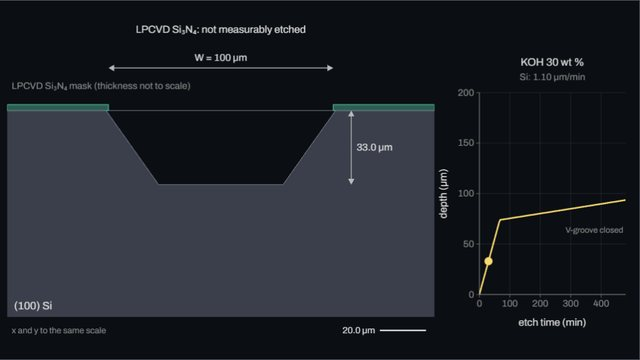
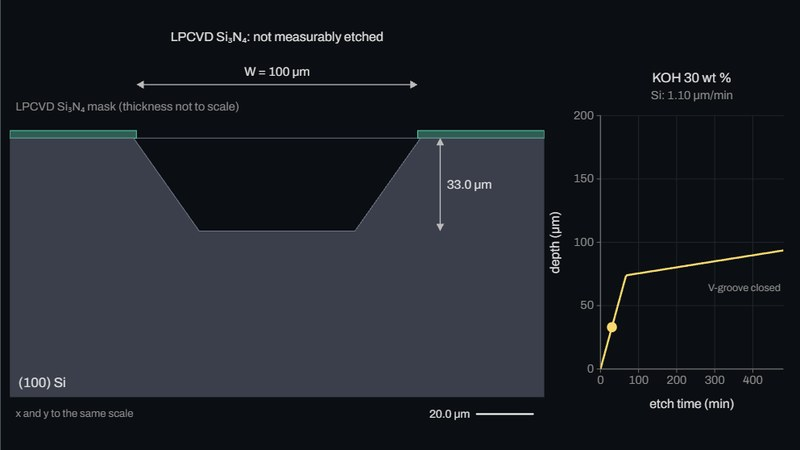
Sharp figures, sliders first in Explore, less empty space
- Canvas bitmap now matches the plate's inner box in whole device pixels
  (it was sized to the outer box incl. the border and then scaled down,
  which made every figure slightly soft).
- Explore mode: the sliders follow the short intro directly; the
  characteristics table moves below them, so it needs no blank reserve.
- Guided tour: the table reserves only the height the current step needs.
- Wider side panel on large screens, sliders in two columns from 500 px.
- Contents miniatures re-captured from the sharp figures at 800 px.

diff --git a/index.html b/index.html
@@ -8,7 +8,7 @@
 <meta name="description" content="Interactive simulations for teaching microfabrication: crystal growth, lithography, diffusion, oxidation, thin-film deposition and etching of silicon.">
 <script>(function(){var t=null;try{t=localStorage.getItem('mfw-theme')}catch(e){}if(t!=='light'&&t!=='dark'){t='light'}document.documentElement.setAttribute('data-theme',t)})();</script>
 <link rel="preload" href="assets/fonts/archivo-latin.woff2" as="font" type="font/woff2" crossorigin>
-<link rel="stylesheet" href="assets/mfw.css?v=35f4052511">
+<link rel="stylesheet" href="assets/mfw.css?v=be07d1cac3">
 </head>
 <body>
 <header class="site-header">
@@ -26,72 +26,72 @@
   <h2 class="contents-h">Contents <span class="contents-count"></span></h2>
   <div class="grid">
     <a class="tile" href="widgets/semiconductor/index.html">
-      <span class="tile-thumb"><img class="th-light" src="assets/thumbs/semiconductor-light.jpg" alt="" width="640" height="360" loading="lazy" decoding="async"><img class="th-dark" src="assets/thumbs/semiconductor-dark.jpg" alt="" width="640" height="360" loading="lazy" decoding="async"></span>
+      <span class="tile-thumb"><img class="th-light" src="assets/thumbs/semiconductor-light.jpg" alt="" width="800" height="450" loading="lazy" decoding="async"><img class="th-dark" src="assets/thumbs/semiconductor-dark.jpg" alt="" width="800" height="450" loading="lazy" decoding="async"></span>
       <h2><span class="tile-no">1.1</span><span class="tile-name">Carriers &amp; the pn junction</span></h2>
       <p>Intrinsic carriers, Fermi level and doping, built-in voltage, depletion width, field, capacitance and breakdown.</p>
     </a>
     <a class="tile" href="widgets/vacuum/index.html">
-      <span class="tile-thumb"><img class="th-light" src="assets/thumbs/vacuum-light.jpg" alt="" width="640" height="360" loading="lazy" decoding="async"><img class="th-dark" src="assets/thumbs/vacuum-dark.jpg" alt="" width="640" height="360" loading="lazy" decoding="async"></span>
+      <span class="tile-thumb"><img class="th-light" src="assets/thumbs/vacuum-light.jpg" alt="" width="800" height="450" loading="lazy" decoding="async"><img class="th-dark" src="assets/thumbs/vacuum-dark.jpg" alt="" width="800" height="450" loading="lazy" decoding="async"></span>
       <h2><span class="tile-no">1.2</span><span class="tile-name">Vacuum technology</span></h2>
       <p>Pump-down, pipe conductance and effective pumping speed, flow regimes, outgassing, mean free path.</p>
     </a>
     <a class="tile" href="widgets/segregation/index.html">
-      <span class="tile-thumb"><img class="th-light" src="assets/thumbs/segregation-light.jpg" alt="" width="640" height="360" loading="lazy" decoding="async"><img class="th-dark" src="assets/thumbs/segregation-dark.jpg" alt="" width="640" height="360" loading="lazy" decoding="async"></span>
+      <span class="tile-thumb"><img class="th-light" src="assets/thumbs/segregation-light.jpg" alt="" width="800" height="450" loading="lazy" decoding="async"><img class="th-dark" src="assets/thumbs/segregation-dark.jpg" alt="" width="800" height="450" loading="lazy" decoding="async"></span>
       <h2><span class="tile-no">2.1</span><span class="tile-name">Dopant segregation</span></h2>
       <p>Czochralski growth: why the tail of a doped ingot has a different resistivity from the seed end.</p>
     </a>
     <a class="tile" href="widgets/spincoating/index.html">
-      <span class="tile-thumb"><img class="th-light" src="assets/thumbs/spincoating-light.jpg" alt="" width="640" height="360" loading="lazy" decoding="async"><img class="th-dark" src="assets/thumbs/spincoating-dark.jpg" alt="" width="640" height="360" loading="lazy" decoding="async"></span>
+      <span class="tile-thumb"><img class="th-light" src="assets/thumbs/spincoating-light.jpg" alt="" width="800" height="450" loading="lazy" decoding="async"><img class="th-dark" src="assets/thumbs/spincoating-dark.jpg" alt="" width="800" height="450" loading="lazy" decoding="async"></span>
       <h2><span class="tile-no">3.1</span><span class="tile-name">Spin coating</span></h2>
       <p>How spin speed and the resist set the film thickness: t ∝ 1/√(rpm), soft bake and edge bead.</p>
     </a>
     <a class="tile" href="widgets/lithography/index.html">
-      <span class="tile-thumb"><img class="th-light" src="assets/thumbs/lithography-light.jpg" alt="" width="640" height="360" loading="lazy" decoding="async"><img class="th-dark" src="assets/thumbs/lithography-dark.jpg" alt="" width="640" height="360" loading="lazy" decoding="async"></span>
+      <span class="tile-thumb"><img class="th-light" src="assets/thumbs/lithography-light.jpg" alt="" width="800" height="450" loading="lazy" decoding="async"><img class="th-dark" src="assets/thumbs/lithography-dark.jpg" alt="" width="800" height="450" loading="lazy" decoding="async"></span>
       <h2><span class="tile-no">3.2</span><span class="tile-name">Lithography resolution</span></h2>
       <p>Contact, proximity and projection printing: diffraction, k₁, the cut-off pitch and depth of focus.</p>
     </a>
     <a class="tile" href="widgets/diffusion/index.html">
-      <span class="tile-thumb"><img class="th-light" src="assets/thumbs/diffusion-light.jpg" alt="" width="640" height="360" loading="lazy" decoding="async"><img class="th-dark" src="assets/thumbs/diffusion-dark.jpg" alt="" width="640" height="360" loading="lazy" decoding="async"></span>
+      <span class="tile-thumb"><img class="th-light" src="assets/thumbs/diffusion-light.jpg" alt="" width="800" height="450" loading="lazy" decoding="async"><img class="th-dark" src="assets/thumbs/diffusion-dark.jpg" alt="" width="800" height="450" loading="lazy" decoding="async"></span>
       <h2><span class="tile-no">4.1</span><span class="tile-name">Diffusion &amp; junction depth</span></h2>
       <p>Predeposition and drive-in of boron or phosphorus: erfc and Gaussian profiles, junction depth, sheet resistance.</p>
     </a>
     <a class="tile" href="widgets/implant/index.html">
-      <span class="tile-thumb"><img class="th-light" src="assets/thumbs/implant-light.jpg" alt="" width="640" height="360" loading="lazy" decoding="async"><img class="th-dark" src="assets/thumbs/implant-dark.jpg" alt="" width="640" height="360" loading="lazy" decoding="async"></span>
+      <span class="tile-thumb"><img class="th-light" src="assets/thumbs/implant-light.jpg" alt="" width="800" height="450" loading="lazy" decoding="async"><img class="th-dark" src="assets/thumbs/implant-dark.jpg" alt="" width="800" height="450" loading="lazy" decoding="async"></span>
       <h2><span class="tile-no">4.2</span><span class="tile-name">Ion implantation</span></h2>
       <p>Range and straggle, dose and peak concentration, junction depth, masking thickness and beam time.</p>
     </a>
     <a class="tile" href="widgets/oxidation/index.html">
-      <span class="tile-thumb"><img class="th-light" src="assets/thumbs/oxidation-light.jpg" alt="" width="640" height="360" loading="lazy" decoding="async"><img class="th-dark" src="assets/thumbs/oxidation-dark.jpg" alt="" width="640" height="360" loading="lazy" decoding="async"></span>
+      <span class="tile-thumb"><img class="th-light" src="assets/thumbs/oxidation-light.jpg" alt="" width="800" height="450" loading="lazy" decoding="async"><img class="th-dark" src="assets/thumbs/oxidation-dark.jpg" alt="" width="800" height="450" loading="lazy" decoding="async"></span>
       <h2><span class="tile-no">5.1</span><span class="tile-name">Thermal oxidation</span></h2>
       <p>Deal–Grove model: dry vs wet oxidation, temperature, orientation, time to a target thickness and the colour of the oxide.</p>
     </a>
     <a class="tile" href="widgets/cvd/index.html">
-      <span class="tile-thumb"><img class="th-light" src="assets/thumbs/cvd-light.jpg" alt="" width="640" height="360" loading="lazy" decoding="async"><img class="th-dark" src="assets/thumbs/cvd-dark.jpg" alt="" width="640" height="360" loading="lazy" decoding="async"></span>
+      <span class="tile-thumb"><img class="th-light" src="assets/thumbs/cvd-light.jpg" alt="" width="800" height="450" loading="lazy" decoding="async"><img class="th-dark" src="assets/thumbs/cvd-dark.jpg" alt="" width="800" height="450" loading="lazy" decoding="async"></span>
       <h2><span class="tile-no">5.2</span><span class="tile-name">CVD growth rate</span></h2>
       <p>Grove model: when does the surface reaction limit growth, and when the gas flow? Boundary layer, temperature and the regime boundary.</p>
     </a>
     <a class="tile" href="widgets/pvd/index.html">
-      <span class="tile-thumb"><img class="th-light" src="assets/thumbs/pvd-light.jpg" alt="" width="640" height="360" loading="lazy" decoding="async"><img class="th-dark" src="assets/thumbs/pvd-dark.jpg" alt="" width="640" height="360" loading="lazy" decoding="async"></span>
+      <span class="tile-thumb"><img class="th-light" src="assets/thumbs/pvd-light.jpg" alt="" width="800" height="450" loading="lazy" decoding="async"><img class="th-dark" src="assets/thumbs/pvd-dark.jpg" alt="" width="800" height="450" loading="lazy" decoding="async"></span>
       <h2><span class="tile-no">5.3</span><span class="tile-name">Evaporation &amp; sputtering</span></h2>
       <p>Line-of-sight deposition: thickness uniformity, mean free path versus pressure, shadowing and lift-off.</p>
     </a>
     <a class="tile" href="widgets/stress/index.html">
-      <span class="tile-thumb"><img class="th-light" src="assets/thumbs/stress-light.jpg" alt="" width="640" height="360" loading="lazy" decoding="async"><img class="th-dark" src="assets/thumbs/stress-dark.jpg" alt="" width="640" height="360" loading="lazy" decoding="async"></span>
+      <span class="tile-thumb"><img class="th-light" src="assets/thumbs/stress-light.jpg" alt="" width="800" height="450" loading="lazy" decoding="async"><img class="th-dark" src="assets/thumbs/stress-dark.jpg" alt="" width="800" height="450" loading="lazy" decoding="async"></span>
       <h2><span class="tile-no">5.4</span><span class="tile-name">Film stress &amp; wafer bow</span></h2>
       <p>Intrinsic and thermal-mismatch stress, the Stoney equation, wafer curvature and how stress is measured.</p>
     </a>
     <a class="tile" href="widgets/etching/index.html">
-      <span class="tile-thumb"><img class="th-light" src="assets/thumbs/etching-light.jpg" alt="" width="640" height="360" loading="lazy" decoding="async"><img class="th-dark" src="assets/thumbs/etching-dark.jpg" alt="" width="640" height="360" loading="lazy" decoding="async"></span>
+      <span class="tile-thumb"><img class="th-light" src="assets/thumbs/etching-light.jpg" alt="" width="800" height="450" loading="lazy" decoding="async"><img class="th-dark" src="assets/thumbs/etching-dark.jpg" alt="" width="800" height="450" loading="lazy" decoding="async"></span>
       <h2><span class="tile-no">6.1</span><span class="tile-name">Etching silicon</span></h2>
       <p>Anisotropic KOH/TMAH with 54.74° walls, isotropic etching, Bosch DRIE; mask selectivity and undercut.</p>
     </a>
     <a class="tile" href="widgets/dryetch/index.html">
-      <span class="tile-thumb"><img class="th-light" src="assets/thumbs/dryetch-light.jpg" alt="" width="640" height="360" loading="lazy" decoding="async"><img class="th-dark" src="assets/thumbs/dryetch-dark.jpg" alt="" width="640" height="360" loading="lazy" decoding="async"></span>
+      <span class="tile-thumb"><img class="th-light" src="assets/thumbs/dryetch-light.jpg" alt="" width="800" height="450" loading="lazy" decoding="async"><img class="th-dark" src="assets/thumbs/dryetch-dark.jpg" alt="" width="800" height="450" loading="lazy" decoding="async"></span>
       <h2><span class="tile-no">6.2</span><span class="tile-name">Dry etching</span></h2>
       <p>Reactive ion etching: ions and radicals, anisotropy and bias, overetch, selectivity and end-point detection by laser interferometry.</p>
     </a>
     <a class="tile" href="widgets/fourpoint/index.html">
-      <span class="tile-thumb"><img class="th-light" src="assets/thumbs/fourpoint-light.jpg" alt="" width="640" height="360" loading="lazy" decoding="async"><img class="th-dark" src="assets/thumbs/fourpoint-dark.jpg" alt="" width="640" height="360" loading="lazy" decoding="async"></span>
+      <span class="tile-thumb"><img class="th-light" src="assets/thumbs/fourpoint-light.jpg" alt="" width="800" height="450" loading="lazy" decoding="async"><img class="th-dark" src="assets/thumbs/fourpoint-dark.jpg" alt="" width="800" height="450" loading="lazy" decoding="async"></span>
       <h2><span class="tile-no">7.1</span><span class="tile-name">Four-point probe</span></h2>
       <p>Sheet resistance, correction factors for small and thick samples, van der Pauw, resistivity and doping.</p>
     </a>
@@ -116,6 +116,6 @@
 
   <footer class="footer"><p>Microfabrication Interactive · open teaching material. Every model cites its sources and lists its limitations.</p></footer>
 </main>
-<script src="assets/mfw.js?v=a1e35428eb"></script>
+<script src="assets/mfw.js?v=dffdadf4c2"></script>
 </body>
 </html>

diff --git a/assets/mfw.js b/assets/mfw.js
@@ -1370,25 +1370,23 @@
       for (const e of [this.explainEl, this.readoutEl]) if (e) { e._mfwH = 0; e.style.minHeight = ''; }
       this._primeReadout();
     }
-    /** The characteristics table sits above the sliders, so its height must not change while one is dragged: reserve
-        the tallest height it takes over the slider extremes, every option and a fixed random sample of states. */
+    /** In the guided tour the characteristics table sits above the sliders. Sliders the tour does not set stay free,
+        so dragging one must not change the table's height: reserve the tallest height the current step takes over the
+        extremes (and options) of those free sliders. In Explore the table sits below the sliders and needs no reserve. */
     _primeReadout() {
       const e = this.readoutEl, cfg = this.cfg;
-      if (!cfg.readout || !e || !e.offsetParent) return;
-      const P0 = this.P, defs = Object.entries(cfg.params || {}).filter(([, d]) => !d.hidden);
-      const pick = (d, r) => (d.options ? Object.keys(d.options)[Math.floor(r * Object.keys(d.options).length)]
-        : typeof d.value === 'boolean' ? r < 0.5 : d.log ? 10 ** (Math.log10(d.min) + r * (Math.log10(d.max) - Math.log10(d.min))) : d.min + r * (d.max - d.min));
-      const states = [];
-      for (const [k, d] of defs) {
-        if (d.options) Object.keys(d.options).forEach(o => states.push({ ...P0, [k]: o }));
-        else if (typeof d.value === 'number' && d.min !== undefined) states.push({ ...P0, [k]: d.min }, { ...P0, [k]: d.max });
+      if (!cfg.readout || !e || !e.offsetParent || this.mode !== 'tour') return;
+      const P0 = { ...this.P };
+      if (this.step >= 0 && cfg.steps && cfg.steps[this.step]) {
+        const t = stepState(cfg, this.step).P;
+        this._stepKeys.forEach(k => { P0[k] = k in t ? t[k] : cfg.params[k].value; });
       }
-      let seed = 12345;
-      const rnd = () => ((seed = (seed * 1664525 + 1013904223) >>> 0) / 4294967296);
-      for (let i = 0; i < 24; i++) {
-        const P = { ...P0 };
-        for (const [k, d] of defs) if (d.options || typeof d.value === 'boolean' || (typeof d.value === 'number' && d.min !== undefined)) P[k] = pick(d, rnd());
-        states.push(P);
+      const states = [P0];
+      for (const [k, d] of Object.entries(cfg.params || {})) {
+        if (d.hidden || this._stepKeys.has(k)) continue;
+        if (d.options) Object.keys(d.options).forEach(o => states.push({ ...P0, [k]: o }));
+        else if (typeof d.value === 'boolean') states.push({ ...P0, [k]: !d.value });
+        else if (typeof d.value === 'number' && d.min !== undefined) states.push({ ...P0, [k]: d.min }, { ...P0, [k]: d.max });
       }
       const keep = e.innerHTML;
       let h = 0;
@@ -1482,10 +1480,15 @@
       });
     }
     _resize() {
-      const r = this.stage.getBoundingClientRect(), dpr = window.devicePixelRatio || 1;
-      if (r.width < 2) return;
-      this.W = r.width; this.H = r.width / this.aspect;
-      this.canvas.width = Math.round(this.W * dpr); this.canvas.height = Math.round(this.H * dpr);
+      // drawable area = the stage's inner box (its border is not part of the canvas); the bitmap gets whole device
+      // pixels and the canvas is sized to exactly that, so one bitmap pixel lands on one screen pixel (no resampling blur)
+      const dpr = window.devicePixelRatio || 1, cw = this.stage.clientWidth;
+      if (cw < 2) return;
+      const bw = Math.round(cw * dpr), bh = Math.round(cw / this.aspect * dpr);
+      this.W = bw / dpr; this.H = bh / dpr;
+      if (this.canvas.width !== bw) this.canvas.width = bw;
+      if (this.canvas.height !== bh) this.canvas.height = bh;
+      this.canvas.style.width = this.W + 'px'; this.canvas.style.height = this.H + 'px';
       this.ctx.setTransform(dpr, 0, 0, dpr, 0, 0);
       this.painter.resize(this.W, this.H);
       this.stage.style.setProperty('--u', (this.W / config.frameWidth) + 'px');

diff --git a/assets/mfw.css b/assets/mfw.css
@@ -203,7 +203,10 @@ p, li { text-wrap: pretty; }
 body.mfw-noscroll { overflow: hidden; }
 
 /* ---------------------------------------------------------------- control panel */
-.mfw-panel { display: grid; gap: 16px; min-width: 0; align-content: start; }
+.mfw-panel { display: grid; gap: 16px; min-width: 0; align-content: start; container-type: inline-size; }
+/* Explore: the sliders are the task, so they come right after the short intro; the table follows them */
+.mfw[data-mode="explore"] .mfw-chars { order: 1; }
+.mfw-source { order: 2; }
 .mfw button, .mfw select {
   font: inherit; font-size: 15px; color: var(--text);
   background: var(--surface); border: 1px solid var(--line-strong); border-radius: 0; padding: 6px 12px; cursor: pointer;
@@ -288,9 +291,13 @@ body.mfw-noscroll { overflow: hidden; }
 /* wide screens: stage left, panel right */
 @media (max-width: 1100px) { .brand-sub { display: none; } }
 @media (min-width: 1180px) {
-  .mfw { grid-template-columns: minmax(0, 1fr) clamp(350px, 27vw, 440px); }
+  .mfw { grid-template-columns: minmax(0, 1fr) clamp(350px, 30vw, 600px); }
   .mfw-stagewrap { position: sticky; top: 66px; }
   .mfw-panel .mfw-params { grid-template-columns: 1fr; }
+}
+/* a wide panel takes the sliders in two columns */
+@container (min-width: 500px) {
+  .mfw-panel .mfw-params, .mfw-panel .mfw-group-body { grid-template-columns: 1fr 1fr; }
 }
 /* narrow screens: the figure stays in view while the panel scrolls under it */
 @media (max-width: 1179px) and (min-height: 560px) {

diff --git a/widgets/dryetch/index.html b/widgets/dryetch/index.html
@@ -8,7 +8,7 @@
 <meta name="description" content="Interactive reactive ion etching of SiO₂: ions and radicals, anisotropy, bias and undercut, overetch, selectivity and end-point detection by laser interferometry.">
 <script>(function(){var t=null;try{t=localStorage.getItem('mfw-theme')}catch(e){}if(t!=='light'&&t!=='dark'){t='light'}document.documentElement.setAttribute('data-theme',t)})();</script>
 <link rel="preload" href="../../assets/fonts/archivo-latin.woff2" as="font" type="font/woff2" crossorigin>
-<link rel="stylesheet" href="../../assets/mfw.css?v=35f4052511">
+<link rel="stylesheet" href="../../assets/mfw.css?v=be07d1cac3">
 </head>
 <body>
 <header class="site-header">
@@ -75,7 +75,7 @@
   </section>
 </main>
 
-<script src="../../assets/mfw.js?v=a1e35428eb"></script>
+<script src="../../assets/mfw.js?v=dffdadf4c2"></script>
 <script src="../oxidation/model.js?v=a686c7dca6"></script>
 <script src="model.js?v=4c66e4c583"></script>
 <script src="widget.js?v=c19a77e66f"></script>

diff --git a/widgets/etching/index.html b/widgets/etching/index.html
@@ -8,7 +8,7 @@
 <meta name="description" content="Interactive cross-section of silicon etching: anisotropic KOH and TMAH, isotropic wet etching and Bosch DRIE, mask selectivity and undercut.">
 <script>(function(){var t=null;try{t=localStorage.getItem('mfw-theme')}catch(e){}if(t!=='light'&&t!=='dark'){t='light'}document.documentElement.setAttribute('data-theme',t)})();</script>
 <link rel="preload" href="../../assets/fonts/archivo-latin.woff2" as="font" type="font/woff2" crossorigin>
-<link rel="stylesheet" href="../../assets/mfw.css?v=35f4052511">
+<link rel="stylesheet" href="../../assets/mfw.css?v=be07d1cac3">
 </head>
 <body>
 <header class="site-header">
@@ -82,8 +82,8 @@
   </section>
 </main>
 
-<script src="../../assets/mfw.js?v=a1e35428eb"></script>
+<script src="../../assets/mfw.js?v=dffdadf4c2"></script>
 <script src="model.js?v=c17e748611"></script>
-<script src="widget.js?v=0dfdd8366e"></script>
+<script src="widget.js?v=14a2153e4c"></script>
 </body>
 </html>

diff --git a/widgets/cvd/index.html b/widgets/cvd/index.html
@@ -8,7 +8,7 @@
 <meta name="description" content="Interactive Grove model of CVD and epitaxial growth: surface-reaction-limited vs gas-transport-limited regime, boundary layer, temperature, gas flow and precursor mole fraction.">
 <script>(function(){var t=null;try{t=localStorage.getItem('mfw-theme')}catch(e){}if(t!=='light'&&t!=='dark'){t='light'}document.documentElement.setAttribute('data-theme',t)})();</script>
 <link rel="preload" href="../../assets/fonts/archivo-latin.woff2" as="font" type="font/woff2" crossorigin>
-<link rel="stylesheet" href="../../assets/mfw.css?v=35f4052511">
+<link rel="stylesheet" href="../../assets/mfw.css?v=be07d1cac3">
 </head>
 <body>
 <header class="site-header">
@@ -80,7 +80,7 @@
   </section>
 </main>
 
-<script src="../../assets/mfw.js?v=a1e35428eb"></script>
+<script src="../../assets/mfw.js?v=dffdadf4c2"></script>
 <script src="model.js?v=97e7c71749"></script>
 <script src="widget.js?v=0de0670a02"></script>
 </body>

diff --git a/widgets/implant/index.html b/widgets/implant/index.html
@@ -8,7 +8,7 @@
 <meta name="description" content="Interactive ion implantation: Gaussian dopant profile, projected range and straggle, dose and peak concentration, junction depth, masking thickness and beam time.">
 <script>(function(){var t=null;try{t=localStorage.getItem('mfw-theme')}catch(e){}if(t!=='light'&&t!=='dark'){t='light'}document.documentElement.setAttribute('data-theme',t)})();</script>
 <link rel="preload" href="../../assets/fonts/archivo-latin.woff2" as="font" type="font/woff2" crossorigin>
-<link rel="stylesheet" href="../../assets/mfw.css?v=35f4052511">
+<link rel="stylesheet" href="../../assets/mfw.css?v=be07d1cac3">
 </head>
 <body>
 <header class="site-header">
@@ -84,7 +84,7 @@
   </section>
 </main>
 
-<script src="../../assets/mfw.js?v=a1e35428eb"></script>
+<script src="../../assets/mfw.js?v=dffdadf4c2"></script>
 <script src="model.js?v=0ec384a1fd"></script>
 <script src="widget.js?v=cbe1c03e54"></script>
 </body>

diff --git a/widgets/pvd/index.html b/widgets/pvd/index.html
@@ -8,7 +8,7 @@
 <meta name="description" content="Interactive physical vapour deposition: line-of-sight evaporation, thickness uniformity across the wafer, mean free path versus pressure, shadowing and lift-off.">
 <script>(function(){var t=null;try{t=localStorage.getItem('mfw-theme')}catch(e){}if(t!=='light'&&t!=='dark'){t='light'}document.documentElement.setAttribute('data-theme',t)})();</script>
 <link rel="preload" href="../../assets/fonts/archivo-latin.woff2" as="font" type="font/woff2" crossorigin>
-<link rel="stylesheet" href="../../assets/mfw.css?v=35f4052511">
+<link rel="stylesheet" href="../../assets/mfw.css?v=be07d1cac3">
 </head>
 <body>
 <header class="site-header">
@@ -79,7 +79,7 @@
   </section>
 </main>
 
-<script src="../../assets/mfw.js?v=a1e35428eb"></script>
+<script src="../../assets/mfw.js?v=dffdadf4c2"></script>
 <script src="model.js?v=2d3fed3d3e"></script>
 <script src="widget.js?v=95d97a1dca"></script>
 </body>

diff --git a/widgets/semiconductor/index.html b/widgets/semiconductor/index.html
@@ -8,7 +8,7 @@
 <meta name="description" content="Interactive silicon pn junction: intrinsic carrier density, Fermi level and doping, built-in voltage, depletion width, electric field, capacitance and breakdown.">
 <script>(function(){var t=null;try{t=localStorage.getItem('mfw-theme')}catch(e){}if(t!=='light'&&t!=='dark'){t='light'}document.documentElement.setAttribute('data-theme',t)})();</script>
 <link rel="preload" href="../../assets/fonts/archivo-latin.woff2" as="font" type="font/woff2" crossorigin>
-<link rel="stylesheet" href="../../assets/mfw.css?v=35f4052511">
+<link rel="stylesheet" href="../../assets/mfw.css?v=be07d1cac3">
 </head>
 <body>
 <header class="site-header">
@@ -84,7 +84,7 @@
   </section>
 </main>
 
-<script src="../../assets/mfw.js?v=a1e35428eb"></script>
+<script src="../../assets/mfw.js?v=dffdadf4c2"></script>
 <script src="model.js?v=b4751e1dec"></script>
 <script src="widget.js?v=cb4401c952"></script>
 </body>

diff --git a/widgets/fourpoint/index.html b/widgets/fourpoint/index.html
@@ -8,7 +8,7 @@
 <meta name="description" content="Interactive four-point probe and van der Pauw measurement: sheet resistance, correction factors for finite and thick samples, resistivity and doping of silicon.">
 <script>(function(){var t=null;try{t=localStorage.getItem('mfw-theme')}catch(e){}if(t!=='light'&&t!=='dark'){t='light'}document.documentElement.setAttribute('data-theme',t)})();</script>
 <link rel="preload" href="../../assets/fonts/archivo-latin.woff2" as="font" type="font/woff2" crossorigin>
-<link rel="stylesheet" href="../../assets/mfw.css?v=35f4052511">
+<link rel="stylesheet" href="../../assets/mfw.css?v=be07d1cac3">
 </head>
 <body>
 <header class="site-header">
@@ -83,7 +83,7 @@
   </section>
 </main>
 
-<script src="../../assets/mfw.js?v=a1e35428eb"></script>
+<script src="../../assets/mfw.js?v=dffdadf4c2"></script>
 <script src="model.js?v=665ce1a836"></script>
 <script src="widget.js?v=240baf046f"></script>
 </body>

diff --git a/widgets/oxidation/index.html b/widgets/oxidation/index.html
@@ -8,7 +8,7 @@
 <meta name="description" content="Interactive Deal–Grove model of thermal oxidation of silicon: dry and wet oxidation, temperature, orientation, time to target thickness and oxide colour.">
 <script>(function(){var t=null;try{t=localStorage.getItem('mfw-theme')}catch(e){}if(t!=='light'&&t!=='dark'){t='light'}document.documentElement.setAttribute('data-theme',t)})();</script>
 <link rel="preload" href="../../assets/fonts/archivo-latin.woff2" as="font" type="font/woff2" crossorigin>
-<link rel="stylesheet" href="../../assets/mfw.css?v=35f4052511">
+<link rel="stylesheet" href="../../assets/mfw.css?v=be07d1cac3">
 </head>
 <body>
 <header class="site-header">
@@ -80,7 +80,7 @@
   </section>
 </main>
 
-<script src="../../assets/mfw.js?v=a1e35428eb"></script>
+<script src="../../assets/mfw.js?v=dffdadf4c2"></script>
 <script src="model.js?v=a686c7dca6"></script>
 <script src="widget.js?v=496af4a168"></script>
 </body>

diff --git a/widgets/stress/index.html b/widgets/stress/index.html
@@ -8,7 +8,7 @@
 <meta name="description" content="Interactive thin-film stress: intrinsic and thermal-mismatch stress, the Stoney equation, wafer curvature and bow, and how film stress is measured.">
 <script>(function(){var t=null;try{t=localStorage.getItem('mfw-theme')}catch(e){}if(t!=='light'&&t!=='dark'){t='light'}document.documentElement.setAttribute('data-theme',t)})();</script>
 <link rel="preload" href="../../assets/fonts/archivo-latin.woff2" as="font" type="font/woff2" crossorigin>
-<link rel="stylesheet" href="../../assets/mfw.css?v=35f4052511">
+<link rel="stylesheet" href="../../assets/mfw.css?v=be07d1cac3">
 </head>
 <body>
 <header class="site-header">
@@ -87,7 +87,7 @@
   </section>
 </main>
 
-<script src="../../assets/mfw.js?v=a1e35428eb"></script>
+<script src="../../assets/mfw.js?v=dffdadf4c2"></script>
 <script src="model.js?v=999020cdea"></script>
 <script src="widget.js?v=769c77b66d"></script>
 </body>
